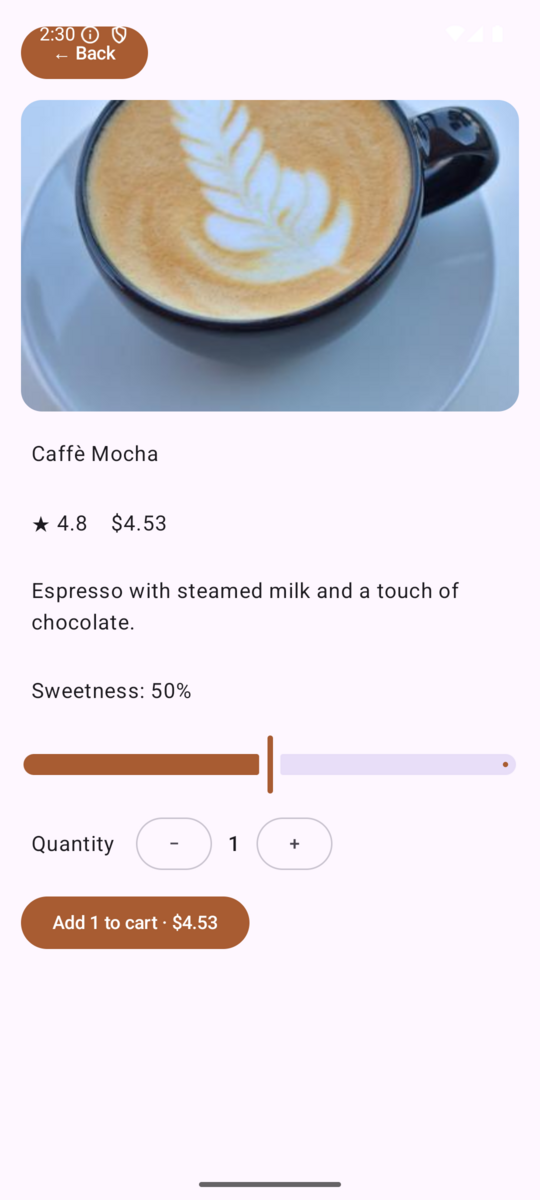
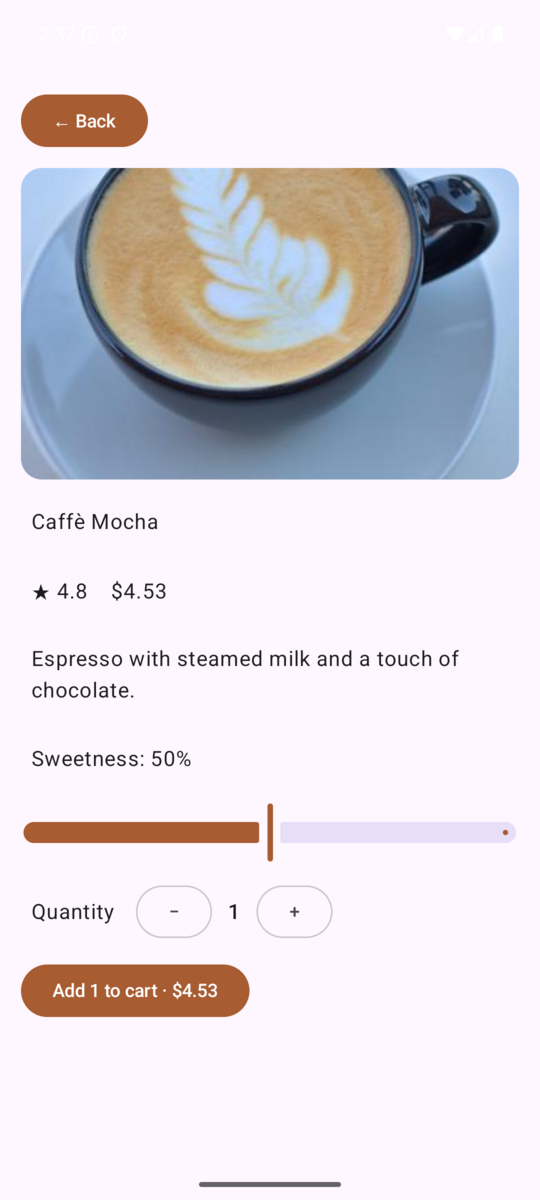
Coffee: inset content below the status bar
The root content drew under the system status bar, so the detail screen's
"← Back" button (and the hero) collided with the clock. Add statusBarsPadding()
to the App() scroll container. Refresh the detail screenshot.

diff --git a/demos/coffee/Android/app/src/main/java/dev/mobiler/coffee/MainActivity.kt b/demos/coffee/Android/app/src/main/java/dev/mobiler/coffee/MainActivity.kt
@@ -14,6 +14,7 @@ import androidx.compose.foundation.layout.aspectRatio
 import androidx.compose.foundation.layout.fillMaxSize
 import androidx.compose.foundation.layout.fillMaxWidth
 import androidx.compose.foundation.layout.padding
+import androidx.compose.foundation.layout.statusBarsPadding
 import androidx.compose.foundation.rememberScrollState
 import androidx.compose.foundation.shape.CircleShape
 import androidx.compose.foundation.shape.RoundedCornerShape
@@ -67,6 +68,7 @@ fun App(core: Core = viewModel()) {
     Column(
         modifier = Modifier
             .fillMaxSize()
+            .statusBarsPadding()
             .verticalScroll(rememberScrollState())
             .padding(16.dp),
         verticalArrangement = Arrangement.spacedBy(12.dp),
